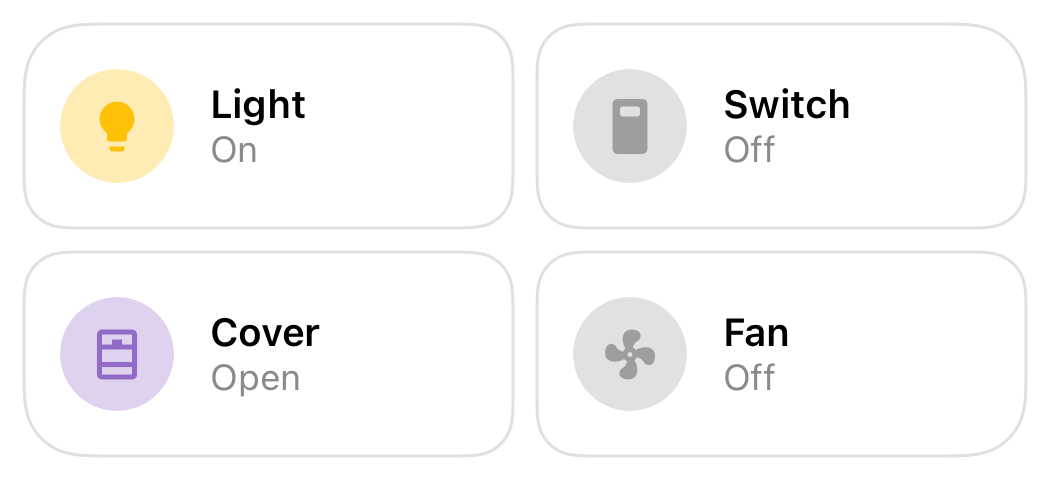
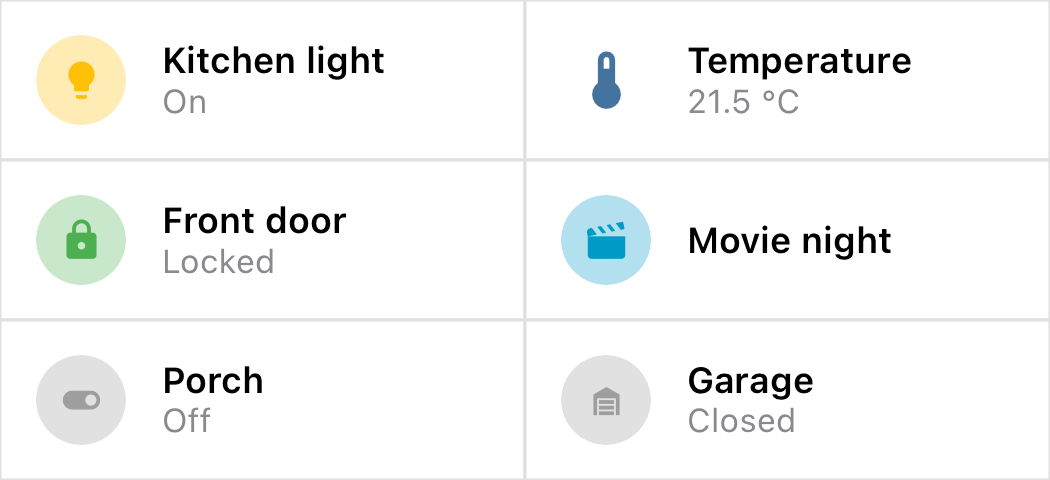
Address review feedback on iOS widgets documentation

diff --git a/docs/integrations/iOS-widgets.md b/docs/integrations/iOS-widgets.md
@@ -17,7 +17,7 @@ The Home Assistant app comes with several built-in widgets. You can also build y
 ## Adding a widget
 
 1. On your Home Screen, touch and hold an empty area until the apps start to jiggle.
-2. Select the **Edit** button in the upper corner, then select **Add widget**.
+2. On iOS 18 and iPadOS 18 or later, select the **Edit** button in the upper corner, then select **Add widget**. On iOS 17 and iPadOS 17, select the **+** button in the upper corner.
 3. Search for **Home Assistant** and select it.
 4. Swipe through the available widgets, choose a size, and select **Add widget**.
 5. To change a widget's settings, touch and hold the widget and select **Edit widget**.
@@ -48,7 +48,7 @@ Because of this, widgets are not suitable for information that must be up to the
 
 Many widgets show the time of their last update, together with a refresh icon. Select it to reload the widget right away.
 
-To refresh your widgets more often, [send a silent push notification with the `update_widgets` command](/docs/notifications/notification-commands). You can create an automation that sends this notification whenever an entity you care about changes state.
+To refresh your widgets more often, [send a silent push notification with the `update_widgets` command](/docs/notifications/notification-commands). You can create an automation that sends this notification whenever an entity you care about changes state. This command reloads the **Common Controls**, **Entities**, **Areas**, **Custom**, **To-do List**, **Gauge**, **Details**, and **Sensors** widgets. The other widgets refresh on their own schedule or when you select their refresh button.
 
 If your widgets are stuck on a blank state or stop updating, open the app and go to **Settings** > **Companion app** > **Widgets**, then select **Reload all widgets**.
 
@@ -65,7 +65,7 @@ For entities without a main action, such as sensors, the whole tile opens the mo
 
 The **Common Controls** widget shows the entities you use most, chosen by Home Assistant based on your usage history. You don't select the entities yourself: the list updates as your habits change.
 
-<img src="/assets/ios/widgets/common-controls.png" alt="Common Controls widget in the medium size, showing six tiles such as a scene, a light, a lock, and a vacuum, each with its current state" width="370" />
+<img src="/assets/ios/widgets/common-controls.png" alt="Common Controls widget in the medium size, showing four tiles: a light that is on, a switch that is off, an open cover, and a fan that is off" width="350" />
 
 **Requirements:**
 
@@ -95,7 +95,7 @@ The **Entities** widget shows the entities you choose, with their current state.
 
 Unlike the **Custom widget**, you set up this widget directly from your Home Screen, without creating anything in the app first. In exchange, you can't change the icons, colors, names, or tap actions.
 
-<img src="/assets/ios/widgets/entities.png" alt="Entities widget in the medium size, showing a light that is on, a switch that is off, an open cover, and a fan that is off" width="350" />
+<img src="/assets/ios/widgets/entities.png" alt="Entities widget in the medium size, showing six entities with their states, such as a kitchen light that is on, a temperature of 21.5 °C, and a locked front door" width="350" />
 
 **Configuration options:**
 
@@ -116,7 +116,7 @@ The **Areas** widget shows the [areas](https://www.home-assistant.io/docs/organi
 
 <img src="/assets/ios/widgets/areas.png" alt="Areas widget in the medium size, showing four areas of the ground floor, with arrows to move between pages" width="370" />
 
-- Select an area to open its page in the Home Assistant dashboard.
+- Select an area to open its page in the Home Assistant dashboard. In the small size, selecting the widget opens the areas dashboard instead.
 - When your home has more areas than fit in the widget, use the arrows at the bottom to move between pages.
 
 **Configuration options:**
@@ -248,7 +248,7 @@ The **Calendar** widget shows your upcoming events for the next 14 days. You can
 
 <img src="/assets/ios/widgets/calendar.png" alt="Calendar widget in the medium size, showing three events from two calendars for Monday the 18th" width="370" />
 
-- Select an event to open its calendar in the app.
+- Select an event to open its calendar in the app. In the small size, selecting the widget opens the calendar page instead.
 - Select the time at the bottom of the widget to reload the events.
 
 **Configuration options:**
@@ -256,7 +256,7 @@ The **Calendar** widget shows your upcoming events for the next 14 days. You can
 - **Calendars**: The calendars to show events from. Select as many as you like. If you don't select any, the widget shows events from all your calendars.
 - **Show calendar name**: Displays the name of the calendar next to each event. This is useful when you merge several calendars.
 
-The small size shows up to 2 events, medium up to 3, and large and extra large up to 6. The large and extra large sizes group the events by day.
+The small size shows up to 2 events, medium up to 3, large and extra large up to 6, and the portrait version of extra large up to 12. The large and extra large sizes group the events by day.
 
 **Available in:**
 
